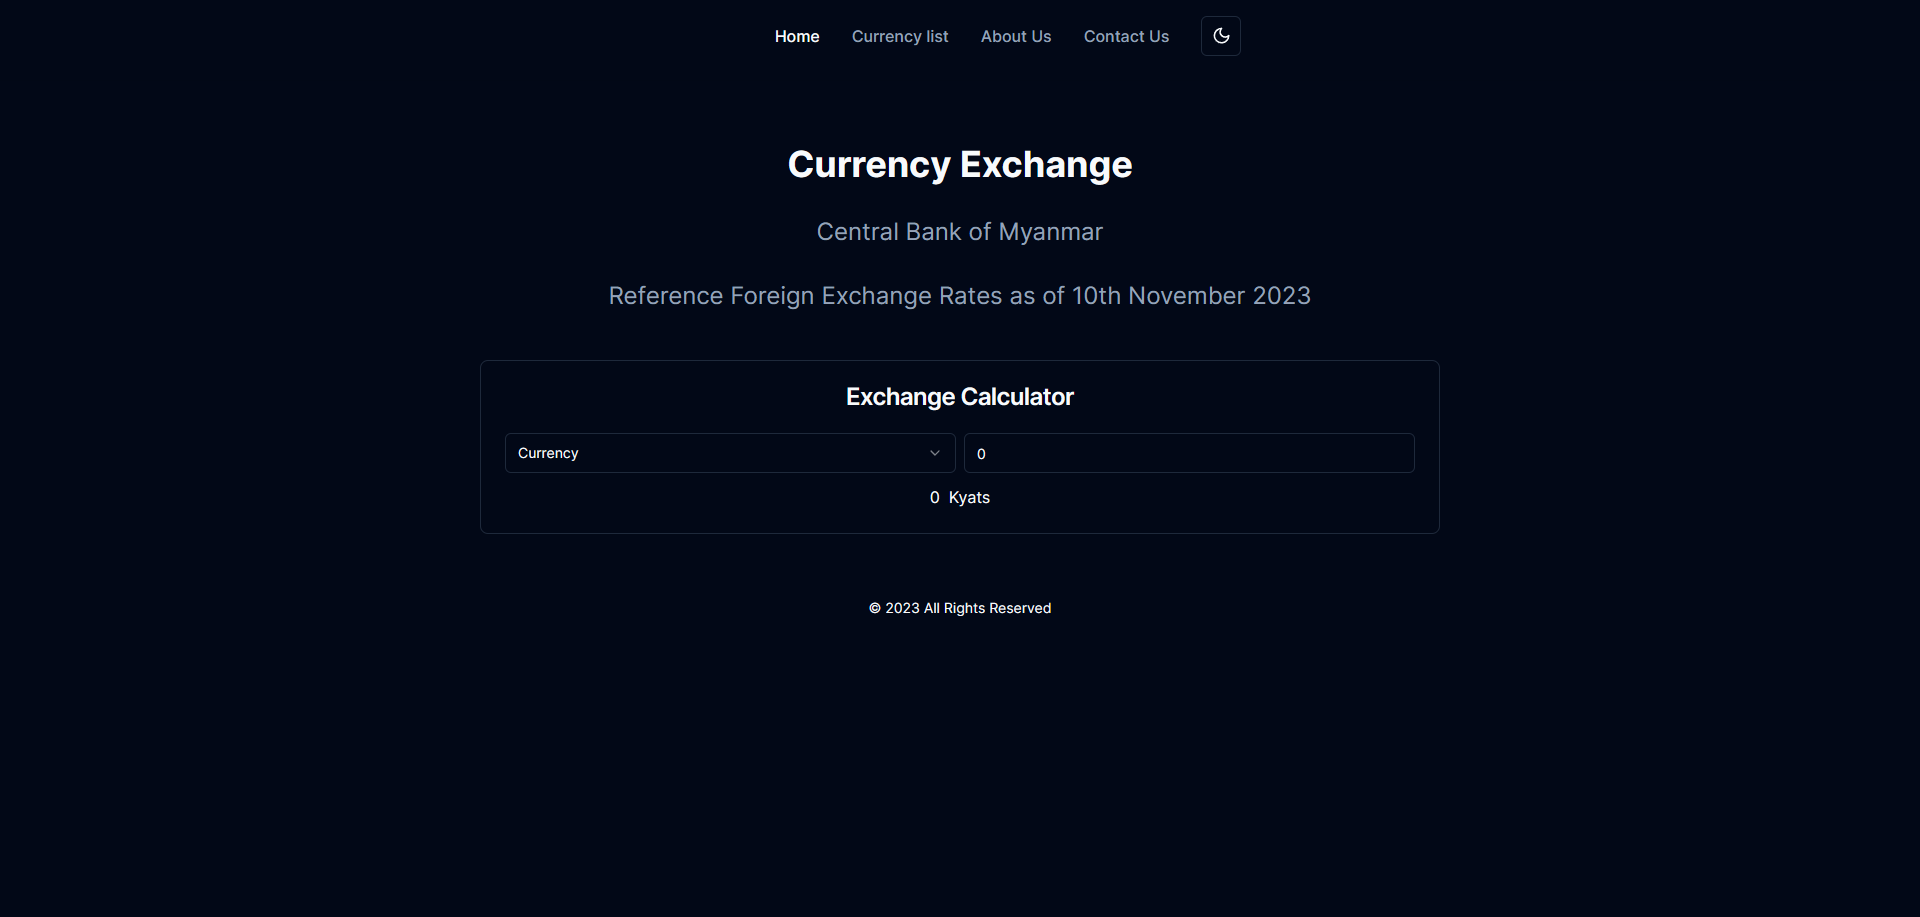
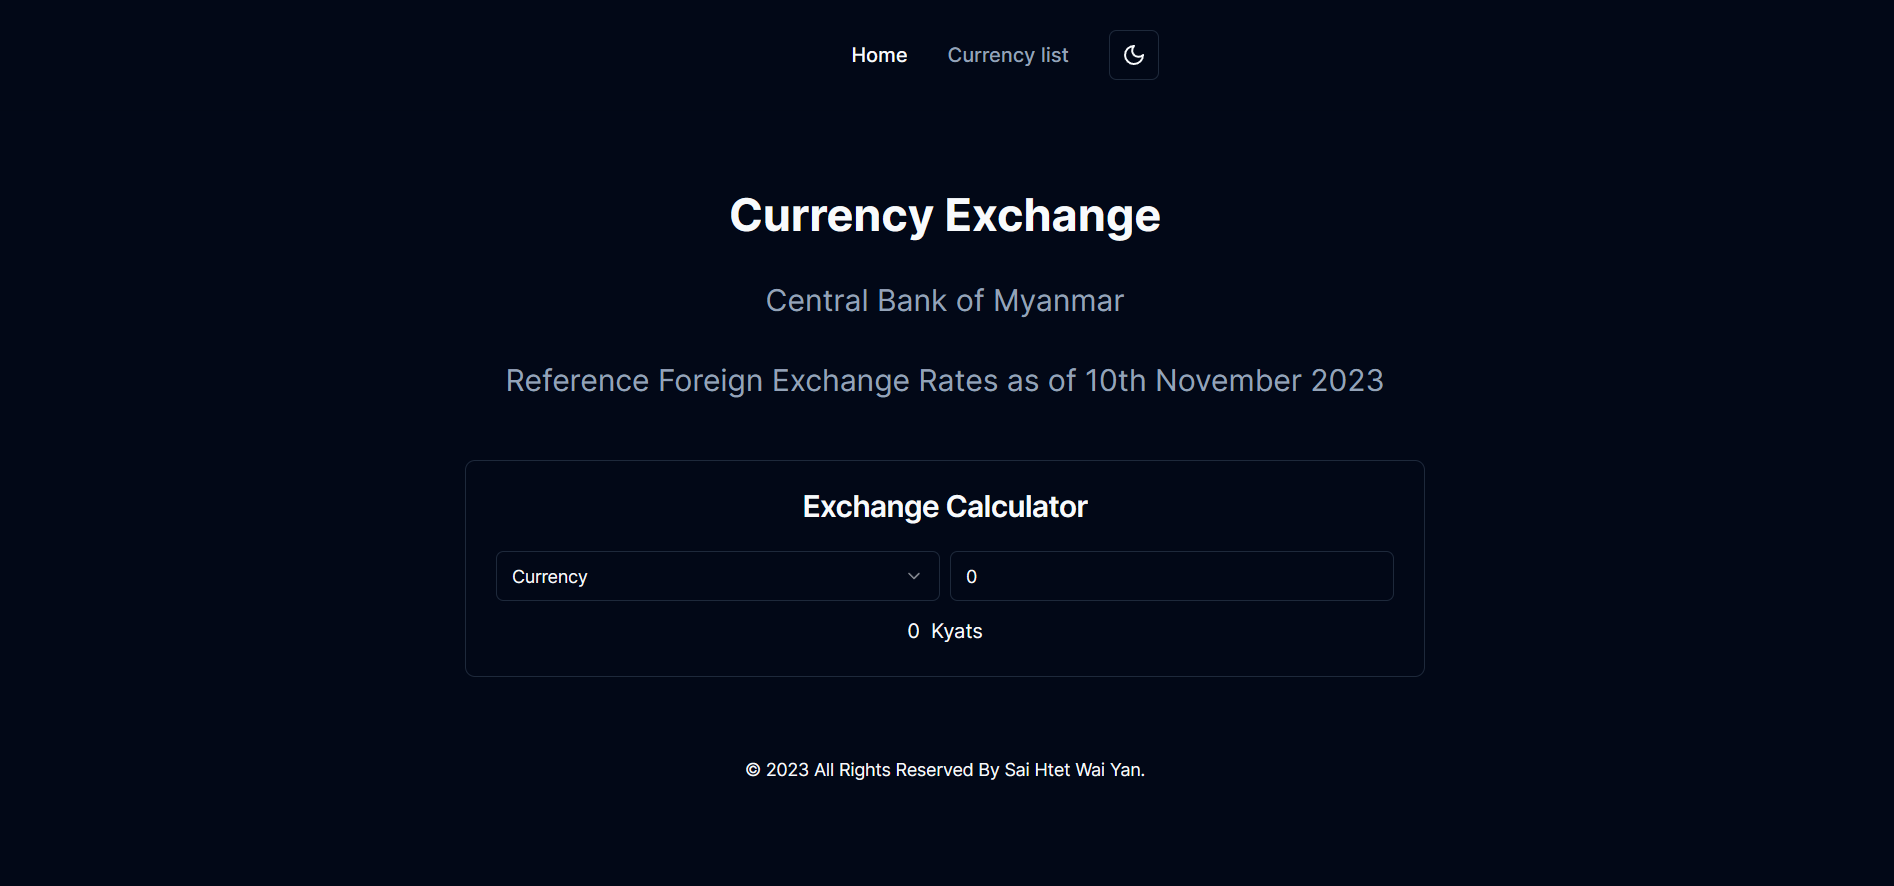
Update Currency List Date Picker

diff --git a/app/currency-list/page.tsx b/app/currency-list/page.tsx
@@ -1,3 +1,4 @@
+"use client";
 import {
   Table,
   TableBody,
@@ -8,22 +9,48 @@ import {
 } from "@/components/ui/table";
 import { ScrollArea } from "@/components/ui/scroll-area";
 
-import getData from "@/lib/api";
+import { latestData, historyData } from "@/lib/api";
+import { DatePicker } from "@/components/Date-Picker";
+import React, { useState, useEffect } from "react";
+export default function CurrencyListPage() {
+  const [data, setData] = useState<any>([]);
+  useEffect(() => {
+    const fetchData = async () => {
+      const data = await latestData();
+      setData(data);
+    };
+    fetchData();
+  }, []);
+  const selectedDateData = (data: any) => {
+    const dateString = data;
+    const inputDate = new Date(dateString);
+    const day = inputDate.getDate();
+    const month = inputDate.getMonth() + 1;
+    const year = inputDate.getFullYear();
+    const formattedDate = `${day < 10 ? "0" : ""}${day}-${
+      month < 10 ? "0" : ""
+    }${month}-${year}`;
 
-export default async function CurrencyListPage() {
-  const data = await getData();
-  const timestamp = data.timestamp * 1000;
-  const date = new Date(timestamp);
-  const day = new Intl.DateTimeFormat("en", { day: "numeric" }).format(date);
-  const month = new Intl.DateTimeFormat("en", { month: "long" }).format(date);
-  const year = new Intl.DateTimeFormat("en", { year: "numeric" }).format(date);
-
-  const formattedDate = `${day}th ${month} ${year}`;
-
+    const fetchData = async () => {
+      try {
+        const data = await historyData(formattedDate as any);
+        setData(data);
+      } catch (error) {
+        console.error("Error fetching history data:", error);
+      }
+    };
+    fetchData();
+  };
   return (
     <main className="py-4">
       <section className="py-12 md:px-24 flex flex-col items-center text-center gap-8">
-        <p className="text-2xl text-muted-foreground">{formattedDate}</p>
+        <p className="text-xl text-muted-foreground gap-2">
+          <DatePicker
+            defaultDate={new Date()}
+            selectedDateData={selectedDateData}
+          />
+        </p>
+
         <ScrollArea className="h-[480px] w-full ">
           <Table>
             <TableHeader>
@@ -37,25 +64,32 @@ export default async function CurrencyListPage() {
             </TableHeader>
 
             <TableBody>
-              {Object.entries(data.rates).map(([currency, rate]) => (
-                <TableRow key={currency}>
-                  <TableCell className="text-center">{currency}</TableCell>
-                  {currency === "JPY" ||
-                  currency === "KHR" ||
-                  currency === "IDR" ||
-                  currency === "KRW" ||
-                  currency === "LAK" ||
-                  currency === "VND" ? (
-                    <TableCell className="text-center">100/-=K</TableCell>
-                  ) : (
-                    <TableCell className="text-center">1/-=K</TableCell>
-                  )}
-
-                  <TableCell className="text-center">
-                    {String(rate)} &nbsp; Kyats
+              {data && data.rates && Object.entries(data.rates).length > 0 ? (
+                Object.entries(data.rates).map(([currency, rate]) => (
+                  <TableRow key={currency}>
+                    <TableCell className="text-center">{currency}</TableCell>
+                    {currency === "JPY" ||
+                    currency === "KHR" ||
+                    currency === "IDR" ||
+                    currency === "KRW" ||
+                    currency === "LAK" ||
+                    currency === "VND" ? (
+                      <TableCell className="text-center">100/-=K</TableCell>
+                    ) : (
+                      <TableCell className="text-center">1/-=K</TableCell>
+                    )}
+                    <TableCell className="text-center">
+                      {String(rate)} &nbsp; Kyats
+                    </TableCell>
+                  </TableRow>
+                ))
+              ) : (
+                <TableRow>
+                  <TableCell colSpan={3} className="text-center">
+                    <p className="pt-10">No data available</p>
                   </TableCell>
                 </TableRow>
-              ))}
+              )}
             </TableBody>
           </Table>
         </ScrollArea>

diff --git a/components/Date-Picker.tsx b/components/Date-Picker.tsx
@@ -1,0 +1,47 @@
+"use client";
+
+import * as React from "react";
+import { format } from "date-fns";
+import { Calendar as CalendarIcon } from "lucide-react";
+
+import { cn } from "@/lib/utils";
+import { Button } from "@/components/ui/button";
+import { Calendar } from "@/components/ui/calendar";
+import {
+  Popover,
+  PopoverContent,
+  PopoverTrigger,
+} from "@/components/ui/popover";
+export function DatePicker({ defaultDate, selectedDateData }: any) {
+  const [date, setDate] = React.useState<Date>(defaultDate);
+  const onSelect = (value: Date | undefined) => {
+    if (value) {
+      setDate(value);
+      selectedDateData(value);
+    }
+  };
+  return (
+    <Popover>
+      <PopoverTrigger asChild>
+        <Button
+          variant={"outline"}
+          className={cn(
+            "w-[280px] justify-start text-left font-normal",
+            !date && "text-muted-foreground"
+          )}
+        >
+          <CalendarIcon className="mr-2 h-4 w-4" />
+          {date ? format(date, "PPP") : <span>Pick a date</span>}
+        </Button>
+      </PopoverTrigger>
+      <PopoverContent className="w-auto p-0">
+        <Calendar
+          mode="single"
+          selected={date}
+          onSelect={onSelect}
+          initialFocus
+        />
+      </PopoverContent>
+    </Popover>
+  );
+}

diff --git a/components/ui/popover.tsx b/components/ui/popover.tsx
@@ -1,0 +1,31 @@
+"use client"
+
+import * as React from "react"
+import * as PopoverPrimitive from "@radix-ui/react-popover"
+
+import { cn } from "@/lib/utils"
+
+const Popover = PopoverPrimitive.Root
+
+const PopoverTrigger = PopoverPrimitive.Trigger
+
+const PopoverContent = React.forwardRef<
+  React.ElementRef<typeof PopoverPrimitive.Content>,
+  React.ComponentPropsWithoutRef<typeof PopoverPrimitive.Content>
+>(({ className, align = "center", sideOffset = 4, ...props }, ref) => (
+  <PopoverPrimitive.Portal>
+    <PopoverPrimitive.Content
+      ref={ref}
+      align={align}
+      sideOffset={sideOffset}
+      className={cn(
+        "z-50 w-72 rounded-md border bg-popover p-4 text-popover-foreground shadow-md outline-none data-[state=open]:animate-in data-[state=closed]:animate-out data-[state=closed]:fade-out-0 data-[state=open]:fade-in-0 data-[state=closed]:zoom-out-95 data-[state=open]:zoom-in-95 data-[side=bottom]:slide-in-from-top-2 data-[side=left]:slide-in-from-right-2 data-[side=right]:slide-in-from-left-2 data-[side=top]:slide-in-from-bottom-2",
+        className
+      )}
+      {...props}
+    />
+  </PopoverPrimitive.Portal>
+))
+PopoverContent.displayName = PopoverPrimitive.Content.displayName
+
+export { Popover, PopoverTrigger, PopoverContent }

diff --git a/lib/api.ts b/lib/api.ts
@@ -1,5 +1,15 @@
-export default async function getData() {
+"use server";
+export async function latestData() {
   const res = await fetch("https://forex.cbm.gov.mm/api/latest");
+  if (!res.ok) {
+    throw new Error("Failed to fetch data");
+  }
+  return res.json();
+}
+
+export async function historyData(date: Date) {
+  const res = await fetch(`http://forex.cbm.gov.mm/api/history/${date}`);
+
   if (!res.ok) {
     throw new Error("Failed to fetch data");
   }

diff --git a/app/layout.tsx b/app/layout.tsx
@@ -30,7 +30,7 @@ export default function RootLayout({
           <div className="container px-5 py-4 mx-auto">
             <p className="text-sm mt-8 capitalize text-center">
               © 2023 All rights reserved by{" "}
-              <a href="https://github.com/SaiHtetWaiYan" target="_blank">
+              <a href="https://saihtet.netlify.app/" target="_blank">
                 Sai Htet Wai Yan.
               </a>
             </p>

diff --git a/app/page.tsx b/app/page.tsx
@@ -1,7 +1,7 @@
 import ExchangeCalculator from "@/components/Exchange-Calculator";
-import getData from "@/lib/api";
+import { latestData } from "@/lib/api";
 export default async function Home() {
-  const data = await getData();
+  const data = await latestData();
   const timestamp = data.timestamp * 1000;
   const date = new Date(timestamp);
   const day = new Intl.DateTimeFormat("en", { day: "numeric" }).format(date);

diff --git a/next.config.js b/next.config.js
@@ -1,4 +1,8 @@
 /** @type {import('next').NextConfig} */
-const nextConfig = {};
+const nextConfig = {
+  experimental: {
+    serverActions: true,
+  },
+};
 
 module.exports = nextConfig;
